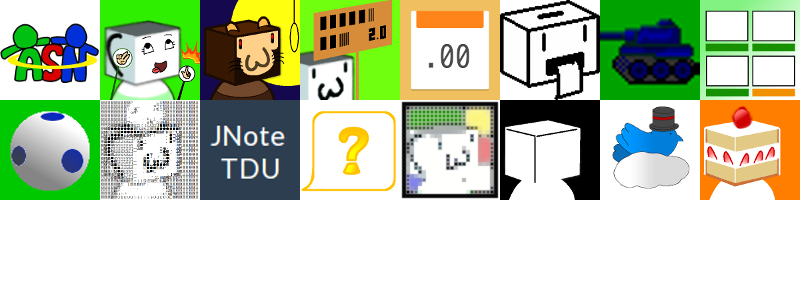
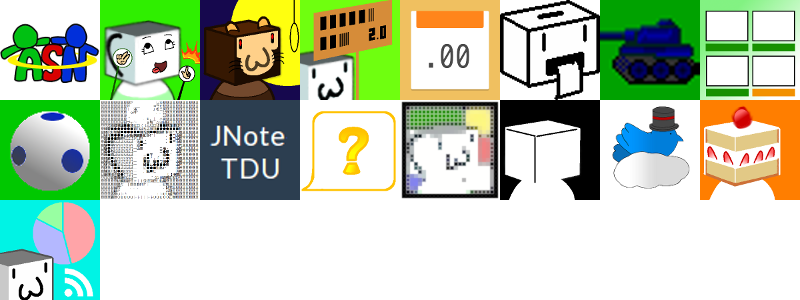
add portfolio labobot

Changed region(s): [[0.0, 0.66, 0.125, 1.0]]

diff --git a/htdocs/style/main.css b/htdocs/style/main.css
@@ -1,1 +1,1 @@
-@charset "utf-8";html,body{background:#fff;font-family:'Avenir','Arial','Helvetica','ヒラギノ角ゴ Pro W3','Hiragino Kaku Gothic Pro','メイリオ',Meiryo,'ＭＳ Ｐゴシック','MS PGothic',sans-serif;overflow:auto}#wrapper{width:800px;margin:0 auto;overflow:auto}a{color:#666}a:visited{color:#222}a.active{pointer-events:none;text-decoration:none}#navbar a.menu{padding-left:5px;margin-left:15px}#navbar a.menu.me{border-left:solid 1px #f00}#navbar a.menu.me:hover{color:#f00}#navbar a.menu.port{border-left:solid 1px #ff8c00}#navbar a.menu.port:hover{color:#ff8c00}#navbar a.menu.log{border-left:solid 1px #ffd700}#navbar a.menu.log:hover{color:#ffd700}.content{position:relative;overflow:auto}.content h1{font-size:30px}.content h1.content-title{padding-bottom:2px;margin-bottom:10px;border-bottom:none;box-shadow:-4px 0 3px;width:60%}.content h2{font-size:20px}.content .sub-title{font-size:18px;font-weight:bold}.content p.page-discription{margin-bottom:29px;margin-left:24px}.content .content-body{padding-bottom:50px}.content .left-box{width:50%;float:left}.content .right-box{width:50%;float:left}.content p.img-box-absolute{position:relative;width:300px;height:300px}.content p.img-box-absolute img.elzup-icon{position:absolute}.content p.img-box-absolute img.icon-mini{position:absolute;width:20px;height:20px;right:3px;bottom:3px}.content .param{margin-bottom:30px}.content .param h4{font-size:20px}.content .param table{width:100%}.content .param table tr{height:1.8em}.content .param table tr:nth-child(2n){background:#fafafa}.content .param table tr td{border-bottom:solid 1px #ddd}.content .param table tr td.name{padding-left:10px;width:50%}.content .param table tr td.value{width:50%}.toppane{margin-top:50px}.toppane .row-toppane{overflow:hidden;width:100%}.toppane .cell{float:left;margin:10px 2%;width:16%;height:100px;line-height:100px}.toppane .cell.message{line-height:30px}.toppane .cell.message>div{padding:10px;height:80px}.toppane .cell.message.cell-col-2{width:36%}.toppane .cell.message.cell-col-3{width:56%}.toppane .cell>div{display:block;background-color:#000;height:100%;border-radius:3px}.toppane .cell>div p{text-align:center}.toppane .cell>div p a{display:block;color:#fff;text-decoration:none}.toppane .cell>div .link-logo{width:40px;height:40px;position:relative;float:right;top:-40px}.toppane .cell>div .link-logo>img{width:70%;position:absolute;padding:15%}.toppane .cell .back{display:none}.toppane .cell .front.on{background:#555}.toppane .cell .my-hp{border-radius:20px 3px}.toppane .row-toppane-title{height:100px;width:100%;display:table}.toppane .row-toppane-title .middle-box{display:table-cell;vertical-align:middle}.toppane .row-toppane-title .middle-box .center-box{text-align:center;overflow:auto;width:420px;margin:0 auto}.toppane .row-toppane-title .middle-box .center-box .top-icon{height:89px;float:left}.toppane .row-toppane-title .middle-box .center-box h1{font-size:70px;display:inline;float:left}.production-pagelinks ul{overflow:auto}.production-pagelinks ul>*{float:left}.production-pagelinks ul li{cursor:pointer;width:100px;height:140px;padding:5px;margin:5px}.production-pagelinks ul li .icon{width:100px;height:100px}.production-pagelinks ul li .icon.icon-0{background:url(../images/sms.png) 0 -100px}.production-pagelinks ul li .icon.icon-1{background:url(../images/sms.png) -600px 0}.production-pagelinks ul li .icon.icon-2{background:url(../images/sms.png) -300px 0}.production-pagelinks ul li .icon.icon-3{background:url(../images/sms.png) -400px -100px}.production-pagelinks ul li .icon.icon-4{background:url(../images/sms.png) -200px -100px}.production-pagelinks ul li .icon.icon-5{background:url(../images/sms.png) -200px 0}.production-pagelinks ul li .icon.icon-6{background:url(../images/sms.png) -400px 0}.production-pagelinks ul li .icon.icon-7{background:url(../images/sms.png) -700px 0}.production-pagelinks ul li .icon.icon-8{background:url(../images/sms.png) -500px 0}.production-pagelinks ul li .icon.icon-9{background:url(../images/sms.png) 0 0}.production-pagelinks ul li .icon.icon-10{background:url(../images/sms.png) -600px -100px}.production-pagelinks ul li .icon.icon-11{background:url(../images/sms.png) -100px 0}.production-pagelinks ul li .icon.icon-12{background:url(../images/sms.png) -700px -100px}.production-pagelinks ul li .icon.icon-13{background:url(../images/sms.png) -100px -100px}.production-pagelinks ul li .icon.icon-14{background:url(../images/sms.png) -500px -100px}.production-pagelinks ul li .icon.icon-15{background:url(../images/sms.png) -300px -100px}.production-box .production-item{float:left;padding:1%;width:48%;border-top:solid 1px;padding-bottom:25px}.production-box .production-item .img-box{display:table-cell;vertical-align:middle;height:240px;overflow:hidden}.production-box .production-item .img-box img.sc{width:100%}.production-box .production-item .detail-box a,.production-box .production-item .detail-box a:hover{text-decoration:none}.production-box .production-item .detail-box .name{font-size:30px}.production-box .production-item .detail-box .detail{font-size:.8em;margin-bottom:10px}.production-box .production-item .detail-box .member{font-size:.8em}.pro-group{float:left;padding-left:5px}.pro-group:before{content:"";box-shadow:0 20px #808080,0 40px #808080;border-left:3px solid #808080}#tl-log-box .sub-description{height:2em}.logs-box{overflow:auto}.logs-box .half{float:left}.logs-box .row-box{width:100%;overflow:auto}.logs-box .row-box .left-side{float:left;width:50px}.logs-box .row-box .right-side{float:left;width:320px}.logs-box .tweet-log-svg-box .cell-label>span{font-size:11px;position:relative}.logs-box .tweet-log-svg-box .cell-label>span.time-0{left:1px}.logs-box .tweet-log-svg-box .cell-label>span.time-6{left:66px}.logs-box .tweet-log-svg-box .cell-label>span.time-12{left:128px}.logs-box .tweet-log-svg-box .cell-label>span.time-18{left:185px}.logs-box .tweet-log-svg-box .cell-label>span.time-24{left:243px}.logs-box .tweet-log-svg-box .tweet-log-svg{float:left;height:75px}.logs-box #async-dsyogi-prof .comp{font-size:.8em}.logs-box #async-dsyogi-prof .dsyogi-prof-log-svg{height:25px}.logs-box .dsyogi-log-box .row-box{margin-bottom:10px}.logs-box .dsyogi-log-box .dsyogi-log-pane{float:left;width:2em;height:2.4em;border-top:solid 3px;margin:1px;padding:none;border-radius:.2em}.logs-box .dsyogi-log-box .dsyogi-log-pane.win{background:#ffa;border-color:#ffa500}.logs-box .dsyogi-log-box .dsyogi-log-pane.win>a>.result{text-align:center;color:#fff;background:#ffa500;display:block;font-size:12px;font-weight:bold}.logs-box .dsyogi-log-box .dsyogi-log-pane.lose{background:#f2e7ff;border-color:#483d8b}.logs-box .dsyogi-log-box .dsyogi-log-pane.lose>a>.result{text-align:center;color:#fff;background:#483d8b;display:block;font-size:12px;font-weight:bold}.logs-box .dsyogi-log-box .dsyogi-log-pane.draw{background:#d8ffff;border-color:#2e8b57}.logs-box .dsyogi-log-box .dsyogi-log-pane.draw>a>.result{text-align:center;color:#fff;background:#2e8b57;display:block;font-size:12px;font-weight:bold}.logs-box .dsyogi-log-box .dsyogi-log-pane a{text-decoration:none;display:block}.logs-box .dsyogi-log-box .dsyogi-log-pane .vs{text-align:center;display:block}.logs-box .dsyogi-log-box .dsyogi-log-pane .vs .rank{font-size:15px}.logs-box .birthday-box .birthday-log-svg{height:20px}.logs-box .birthday-box table.birthday-log td{padding-left:5px}.logs-box .birthday-box table.birthday-log td[rowspan]{vertical-align:top}.logs-box .birthday-box table.birthday-log td .title{margin-left:.8px;font-size:10px}.logs-box .birthday-box table.birthday-log td.today{border-right:solid #ffa500}.logs-box input#switch-tweet-log{margin-left:10px}.a-third{width:33%}.half{width:50%}.half-box{width:50%;float:left}.floatleft{float:left}.disabled{cursor:default}.visible-xs{display:none !important}.btn{background:#6b6b6b;color:#fff;border:solid 1px #000;padding:0 9px}.btn.btn-slope{border-radius:6px 2px}.btn.btn-mini{font-size:.8em;padding:1px 9px}.btn:hover{background:#474747;border-bottom:none;margin-top:2px}.date4{padding:0 2px}.tag{color:#333;margin-left:10px}.tag:before{content:'#'}.tags{line-height:1.4em}.techtag{color:#fff;margin-left:4px;margin-bottom:2px;background:#000;padding:1px 5px;border-radius:3px;font-size:13px}.techtag.techtag-language,.techtag.techtag-cpp,.techtag.techtag-php,.techtag.techtag-java,.techtag.techtag-javascript,.techtag.techtag-processing{border-bottom:#f00 solid 4px}.techtag.techtag-metalang,.techtag.techtag-jquery,.techtag.techtag-less,.techtag.techtag-processing-js,.techtag.techtag-coffeescript{border-bottom:#ffa500 solid 4px}.techtag.techtag-framework,.techtag.techtag-codeigniter,.techtag.techtag-bootstrap{border-bottom:#ff0 solid 4px}.techtag.techtag-lib,.techtag.techtag-dxlib,.techtag.techtag-java_servlet{border-bottom:#0f0 solid 4px}.techtag.techtag-api,.techtag.techtag-twitterapi,.techtag.techtag-twitterwebapi,.techtag.techtag-ustreamapi,.techtag.techtag-yahooapi{border-bottom:#add8e6 solid 4px}.techtag.techtag-service,.techtag.techtag-googlescript{border-bottom:#add8e6 solid 4px}.techtag.techtag-os,.techtag.techtag-windows,.techtag.techtag-linux{border-bottom:#808080 solid 4px}.techtag.techtag-db,.techtag.techtag-mysql,.techtag.techtag-postgresql{border-bottom:#008000 solid 4px}.techtag.techtag-editor,.techtag.techtag-visualstudio,.techtag.techtag-eclipse,.techtag.techtag-netbeans,.techtag.techtag-vim,.techtag.techtag-intellij_idea{border-bottom:#da70d6 solid 4px}.techtag.techtag-admin,.techtag.techtag-git,.techtag.techtag-grunt{border-bottom:#a9a9a9 solid 4px}.clearboth{clear:both}.help-panel{width:40%}.help-panel ul.help-list>li{line-height:1.6em}.help-panel ul.help-list>li .description{float:right}.icon-jump{font-size:25px;text-decoration:none;text-shadow:1px 2px 1px}.icon-jump.icon-jump-min{font-size:1em}.shift-top{margin-top:30px !important}.hide{display:none}.message{color:#fff}.clear-text{color:rgba(0,0,0,0)}@media screen and (max-width:760px){#wrapper{width:100%}.toppane{margin-top:20px}.toppane .row-toppane{overflow:hidden;width:100%}.toppane .row-toppane .middle-box .cell{float:left;margin:5px .5%;width:19%;height:80px;line-height:80px}.help-panel{width:50%}}@media screen and (max-width:480px){#wrapper{width:100%}.toppane{margin-top:20px;width:100%;overflow:auto}.toppane .row-toppane-title .middle-box .center-box{width:300px}.toppane .row-toppane-title .middle-box .center-box h1{font-size:48px !important}.toppane .row-toppane-title .middle-box .center-box img{height:65px !important}.toppane .mini-cell-wrap{width:100%;overflow:auto}.toppane .mini-cell-wrap .cell{float:left;margin:5px 1.5%;width:30%;height:80px;line-height:80px}.content{padding:0 6px}.content .right-box,.content .left-box{margin-top:10px;width:auto;float:none}.content h1.content-title{box-shadow:none;width:90%;border-bottom:solid 1px #555}.production-box .production-item{float:left;padding:0 2% 10px;width:96%;height:auto;border-bottom:solid 1px}.production-box .production-item p.member span.text{font-size:12px}.logs-box .half{width:100%}.logs-box .row-box .right-side{width:100%}.help-panel{width:100%}.hidden-xs{display:none !important}.visible-xs{display:table !important}}
+@charset "utf-8";html,body{background:#fff;font-family:'Avenir','Arial','Helvetica','ヒラギノ角ゴ Pro W3','Hiragino Kaku Gothic Pro','メイリオ',Meiryo,'ＭＳ Ｐゴシック','MS PGothic',sans-serif;overflow:auto}#wrapper{width:800px;margin:0 auto;overflow:auto}a{color:#666}a:visited{color:#222}a.active{pointer-events:none;text-decoration:none}#navbar a.menu{padding-left:5px;margin-left:15px}#navbar a.menu.me{border-left:solid 1px #f00}#navbar a.menu.me:hover{color:#f00}#navbar a.menu.port{border-left:solid 1px #ff8c00}#navbar a.menu.port:hover{color:#ff8c00}#navbar a.menu.log{border-left:solid 1px #ffd700}#navbar a.menu.log:hover{color:#ffd700}.content{position:relative;overflow:auto}.content h1{font-size:30px}.content h1.content-title{padding-bottom:2px;margin-bottom:10px;border-bottom:none;box-shadow:-4px 0 3px;width:60%}.content h2{font-size:20px}.content .sub-title{font-size:18px;font-weight:bold}.content p.page-discription{margin-bottom:29px;margin-left:24px}.content .content-body{padding-bottom:50px}.content .left-box{width:50%;float:left}.content .right-box{width:50%;float:left}.content p.img-box-absolute{position:relative;width:300px;height:300px}.content p.img-box-absolute img.elzup-icon{position:absolute}.content p.img-box-absolute img.icon-mini{position:absolute;width:20px;height:20px;right:3px;bottom:3px}.content .param{margin-bottom:30px}.content .param h4{font-size:20px}.content .param table{width:100%}.content .param table tr{height:1.8em}.content .param table tr:nth-child(2n){background:#fafafa}.content .param table tr td{border-bottom:solid 1px #ddd}.content .param table tr td.name{padding-left:10px;width:50%}.content .param table tr td.value{width:50%}.toppane{margin-top:50px}.toppane .row-toppane{overflow:hidden;width:100%}.toppane .cell{float:left;margin:10px 2%;width:16%;height:100px;line-height:100px}.toppane .cell.message{line-height:30px}.toppane .cell.message>div{padding:10px;height:80px}.toppane .cell.message.cell-col-2{width:36%}.toppane .cell.message.cell-col-3{width:56%}.toppane .cell>div{display:block;background-color:#000;height:100%;border-radius:3px}.toppane .cell>div p{text-align:center}.toppane .cell>div p a{display:block;color:#fff;text-decoration:none}.toppane .cell>div .link-logo{width:40px;height:40px;position:relative;float:right;top:-40px}.toppane .cell>div .link-logo>img{width:70%;position:absolute;padding:15%}.toppane .cell .back{display:none}.toppane .cell .front.on{background:#555}.toppane .cell .my-hp{border-radius:20px 3px}.toppane .row-toppane-title{height:100px;width:100%;display:table}.toppane .row-toppane-title .middle-box{display:table-cell;vertical-align:middle}.toppane .row-toppane-title .middle-box .center-box{text-align:center;overflow:auto;width:420px;margin:0 auto}.toppane .row-toppane-title .middle-box .center-box .top-icon{height:89px;float:left}.toppane .row-toppane-title .middle-box .center-box h1{font-size:70px;display:inline;float:left}.production-pagelinks ul{overflow:auto}.production-pagelinks ul>*{float:left}.production-pagelinks ul li{cursor:pointer;width:100px;height:140px;padding:5px;margin:5px}.production-pagelinks ul li .icon{width:100px;height:100px}.production-pagelinks ul li .icon.icon-0{background:url(../images/sms.png) 0 -100px}.production-pagelinks ul li .icon.icon-1{background:url(../images/sms.png) -600px 0}.production-pagelinks ul li .icon.icon-2{background:url(../images/sms.png) -300px 0}.production-pagelinks ul li .icon.icon-3{background:url(../images/sms.png) -400px -100px}.production-pagelinks ul li .icon.icon-4{background:url(../images/sms.png) -200px -100px}.production-pagelinks ul li .icon.icon-5{background:url(../images/sms.png) -200px 0}.production-pagelinks ul li .icon.icon-6{background:url(../images/sms.png) -400px 0}.production-pagelinks ul li .icon.icon-7{background:url(../images/sms.png) -700px 0}.production-pagelinks ul li .icon.icon-8{background:url(../images/sms.png) -500px 0}.production-pagelinks ul li .icon.icon-9{background:url(../images/sms.png) 0 0}.production-pagelinks ul li .icon.icon-10{background:url(../images/sms.png) -600px -100px}.production-pagelinks ul li .icon.icon-11{background:url(../images/sms.png) -100px 0}.production-pagelinks ul li .icon.icon-12{background:url(../images/sms.png) -700px -100px}.production-pagelinks ul li .icon.icon-13{background:url(../images/sms.png) -100px -100px}.production-pagelinks ul li .icon.icon-14{background:url(../images/sms.png) -500px -100px}.production-pagelinks ul li .icon.icon-15{background:url(../images/sms.png) -300px -100px}.production-pagelinks ul li .icon.icon-16{background:url(../images/sms.png) 0 -200px}.production-box .production-item{float:left;padding:1%;width:48%;border-top:solid 1px;padding-bottom:25px}.production-box .production-item .img-box{display:table-cell;vertical-align:middle;height:240px;overflow:hidden}.production-box .production-item .img-box img.sc{width:100%}.production-box .production-item .detail-box a,.production-box .production-item .detail-box a:hover{text-decoration:none}.production-box .production-item .detail-box .name{font-size:30px}.production-box .production-item .detail-box .detail{font-size:.8em;margin-bottom:10px}.production-box .production-item .detail-box .member{font-size:.8em}.pro-group{float:left;padding-left:5px}.pro-group:before{content:"";box-shadow:0 20px #808080,0 40px #808080;border-left:3px solid #808080}#tl-log-box .sub-description{height:2em}.logs-box{overflow:auto}.logs-box .half{float:left}.logs-box .row-box{width:100%;overflow:auto}.logs-box .row-box .left-side{float:left;width:50px}.logs-box .row-box .right-side{float:left;width:320px}.logs-box .tweet-log-svg-box .cell-label>span{font-size:11px;position:relative}.logs-box .tweet-log-svg-box .cell-label>span.time-0{left:1px}.logs-box .tweet-log-svg-box .cell-label>span.time-6{left:66px}.logs-box .tweet-log-svg-box .cell-label>span.time-12{left:128px}.logs-box .tweet-log-svg-box .cell-label>span.time-18{left:185px}.logs-box .tweet-log-svg-box .cell-label>span.time-24{left:243px}.logs-box .tweet-log-svg-box .tweet-log-svg{float:left;height:75px}.logs-box #async-dsyogi-prof .comp{font-size:.8em}.logs-box #async-dsyogi-prof .dsyogi-prof-log-svg{height:25px}.logs-box .dsyogi-log-box .row-box{margin-bottom:10px}.logs-box .dsyogi-log-box .dsyogi-log-pane{float:left;width:2em;height:2.4em;border-top:solid 3px;margin:1px;padding:none;border-radius:.2em}.logs-box .dsyogi-log-box .dsyogi-log-pane.win{background:#ffa;border-color:#ffa500}.logs-box .dsyogi-log-box .dsyogi-log-pane.win>a>.result{text-align:center;color:#fff;background:#ffa500;display:block;font-size:12px;font-weight:bold}.logs-box .dsyogi-log-box .dsyogi-log-pane.lose{background:#f2e7ff;border-color:#483d8b}.logs-box .dsyogi-log-box .dsyogi-log-pane.lose>a>.result{text-align:center;color:#fff;background:#483d8b;display:block;font-size:12px;font-weight:bold}.logs-box .dsyogi-log-box .dsyogi-log-pane.draw{background:#d8ffff;border-color:#2e8b57}.logs-box .dsyogi-log-box .dsyogi-log-pane.draw>a>.result{text-align:center;color:#fff;background:#2e8b57;display:block;font-size:12px;font-weight:bold}.logs-box .dsyogi-log-box .dsyogi-log-pane a{text-decoration:none;display:block}.logs-box .dsyogi-log-box .dsyogi-log-pane .vs{text-align:center;display:block}.logs-box .dsyogi-log-box .dsyogi-log-pane .vs .rank{font-size:15px}.logs-box .birthday-box .birthday-log-svg{height:20px}.logs-box .birthday-box table.birthday-log td{padding-left:5px}.logs-box .birthday-box table.birthday-log td[rowspan]{vertical-align:top}.logs-box .birthday-box table.birthday-log td .title{margin-left:.8px;font-size:10px}.logs-box .birthday-box table.birthday-log td.today{border-right:solid #ffa500}.logs-box input#switch-tweet-log{margin-left:10px}.a-third{width:33%}.half{width:50%}.half-box{width:50%;float:left}.floatleft{float:left}.disabled{cursor:default}.visible-xs{display:none !important}.btn{background:#6b6b6b;color:#fff;border:solid 1px #000;padding:0 9px}.btn.btn-slope{border-radius:6px 2px}.btn.btn-mini{font-size:.8em;padding:1px 9px}.btn:hover{background:#474747;border-bottom:none;margin-top:2px}.date4{padding:0 2px}.tag{color:#333;margin-left:10px}.tag:before{content:'#'}.tags{line-height:1.4em}.techtag{color:#fff;margin-left:4px;margin-bottom:2px;background:#000;padding:1px 5px;border-radius:3px;font-size:13px}.techtag.techtag-language,.techtag.techtag-cpp,.techtag.techtag-php,.techtag.techtag-java,.techtag.techtag-javascript,.techtag.techtag-processing{border-bottom:#f00 solid 4px}.techtag.techtag-metalang,.techtag.techtag-jquery,.techtag.techtag-less,.techtag.techtag-processing-js,.techtag.techtag-coffeescript{border-bottom:#ffa500 solid 4px}.techtag.techtag-framework,.techtag.techtag-codeigniter,.techtag.techtag-bootstrap{border-bottom:#ff0 solid 4px}.techtag.techtag-lib,.techtag.techtag-dxlib,.techtag.techtag-java_servlet{border-bottom:#0f0 solid 4px}.techtag.techtag-api,.techtag.techtag-twitterapi,.techtag.techtag-twitterwebapi,.techtag.techtag-ustreamapi,.techtag.techtag-yahooapi{border-bottom:#add8e6 solid 4px}.techtag.techtag-service,.techtag.techtag-googlescript{border-bottom:#add8e6 solid 4px}.techtag.techtag-os,.techtag.techtag-windows,.techtag.techtag-linux{border-bottom:#808080 solid 4px}.techtag.techtag-db,.techtag.techtag-mysql,.techtag.techtag-postgresql{border-bottom:#008000 solid 4px}.techtag.techtag-editor,.techtag.techtag-visualstudio,.techtag.techtag-eclipse,.techtag.techtag-netbeans,.techtag.techtag-vim,.techtag.techtag-intellij_idea{border-bottom:#da70d6 solid 4px}.techtag.techtag-admin,.techtag.techtag-git,.techtag.techtag-grunt{border-bottom:#a9a9a9 solid 4px}.clearboth{clear:both}.help-panel{width:40%}.help-panel ul.help-list>li{line-height:1.6em}.help-panel ul.help-list>li .description{float:right}.icon-jump{font-size:25px;text-decoration:none;text-shadow:1px 2px 1px}.icon-jump.icon-jump-min{font-size:1em}.shift-top{margin-top:30px !important}.hide{display:none}.message{color:#fff}.clear-text{color:rgba(0,0,0,0)}@media screen and (max-width:760px){#wrapper{width:100%}.toppane{margin-top:20px}.toppane .row-toppane{overflow:hidden;width:100%}.toppane .row-toppane .middle-box .cell{float:left;margin:5px .5%;width:19%;height:80px;line-height:80px}.help-panel{width:50%}}@media screen and (max-width:480px){#wrapper{width:100%}.toppane{margin-top:20px;width:100%;overflow:auto}.toppane .row-toppane-title .middle-box .center-box{width:300px}.toppane .row-toppane-title .middle-box .center-box h1{font-size:48px !important}.toppane .row-toppane-title .middle-box .center-box img{height:65px !important}.toppane .mini-cell-wrap{width:100%;overflow:auto}.toppane .mini-cell-wrap .cell{float:left;margin:5px 1.5%;width:30%;height:80px;line-height:80px}.content{padding:0 6px}.content .right-box,.content .left-box{margin-top:10px;width:auto;float:none}.content h1.content-title{box-shadow:none;width:90%;border-bottom:solid 1px #555}.production-box .production-item{float:left;padding:0 2% 10px;width:96%;height:auto;border-bottom:solid 1px}.production-box .production-item p.member span.text{font-size:12px}.logs-box .half{width:100%}.logs-box .row-box .right-side{width:100%}.help-panel{width:100%}.hidden-xs{display:none !important}.visible-xs{display:table !important}}

diff --git a/htdocs/style/main.less b/htdocs/style/main.less
@@ -276,6 +276,7 @@ a {
                 &.icon-13 { .icon-back(1, 1); }
                 &.icon-14 { .icon-back(1, 5); }
                 &.icon-15 { .icon-back(1, 3); }
+                &.icon-16 { .icon-back(2, 0); }
             }
         }
     }

diff --git a/application/views/portfoliopage.php b/application/views/portfoliopage.php
@@ -192,13 +192,19 @@ EOF
 		, array(TECHTAG_PHP, TECHTAG_CODEIGNITER, TECHTAG_JQUERY, TECHTAG_LINUX, TECHTAG_NETBEANS, TECHTAG_VIM, TECHTAG_GIT), '2014年8月', PATH_IMG_PRO_ELZUP
 	),
 	new Production(
-		'言えるかな？', '言えるかなゲーム', PRO_TYPE_SERIVICE, <<<EOF
+		'言えるかな？', '言えるかなゲームで遊ぼう', PRO_TYPE_SERIVICE, <<<EOF
 		言えるかなゲーム(山手線ゲーム)を作ったり遊んだりできるサイト	,seo対策やRSS配信ping送信などや非同期通信での登録フォームUIなど力を入れた
 EOF
 		, array(TECHTAG_PHP, TECHTAG_CODEIGNITER, TECHTAG_BOOTSTRAP, TECHTAG_JQUERY, TECHTAG_COFFEESCRIPT, TECHTAG_LINUX, TECHTAG_NETBEANS, TECHTAG_VIM, TECHTAG_GIT, TECHTAG_GRUNT), '2014年8月', PATH_IMG_PRO_IERUKANA, '//ierukana.elzup.com'
 	),
+	new Production(
+		'TDU12FI研究室希望bot', '研究室希望登録があるたびに通知', PRO_TYPE_BOT, <<<EOF
+		14年度研究室配属希望があるとその研究室の志望者人数と定員数をツイートするTwitterBot.3時間ぐらいで作った
+EOF
+		, array(TECHTAG_PHP, TECHTAG_TWITTERAPI, TECHTAG_LINUX, TECHTAG_VIM), '2014年9月', PATH_IMG_PRO_LABOATTEND, '//twitter.com/tdu12fi'
+	),
 );
-
+http://twitter.com/tdu12fi
 // 種類分け
 $production_kinds = array();
 foreach ($production_list as $pro) {

diff --git a/application/config/constants.php b/application/config/constants.php
@@ -109,6 +109,7 @@ define('PATH_IMG_PRO_BIRTHDAY', PATH_IMG . 'sc_birthday.png');
 define('PATH_IMG_PRO_NENSYATTER', PATH_IMG . 'sc_nensya.png');
 define('PATH_IMG_PRO_ELZUP', PATH_IMG . 'sc_elzup.png');
 define('PATH_IMG_PRO_IERUKANA', PATH_IMG . 'sc_ierukana.png');
+define('PATH_IMG_PRO_LABOATTEND', PATH_IMG . 'sc_laboattend.png');
 
 define('PATH_IMG_PRO_M_OTHELLO', PATH_IMG . 'sm_othello.png');
 define('PATH_IMG_PRO_M_TANK', PATH_IMG . 'sm_tank.png');
@@ -126,6 +127,7 @@ define('PATH_IMG_PRO_M_BIRTHDAY', PATH_IMG . 'sm_birthday.png');
 define('PATH_IMG_PRO_M_NENSYATTER', PATH_IMG . 'sm_nensya.png');
 define('PATH_IMG_PRO_M_ELZUP', PATH_IMG . 'sm_elzup.png');
 define('PATH_IMG_PRO_M_IERUKANA', PATH_IMG . 'sm_ierukana.png');
+define('PATH_IMG_PRO_M_LABOATTEND', PATH_IMG . 'sm_laboattend.png');
 
 define('PATH_IMG_RELOAD', PATH_IMG . 'im_reload.png');
 
